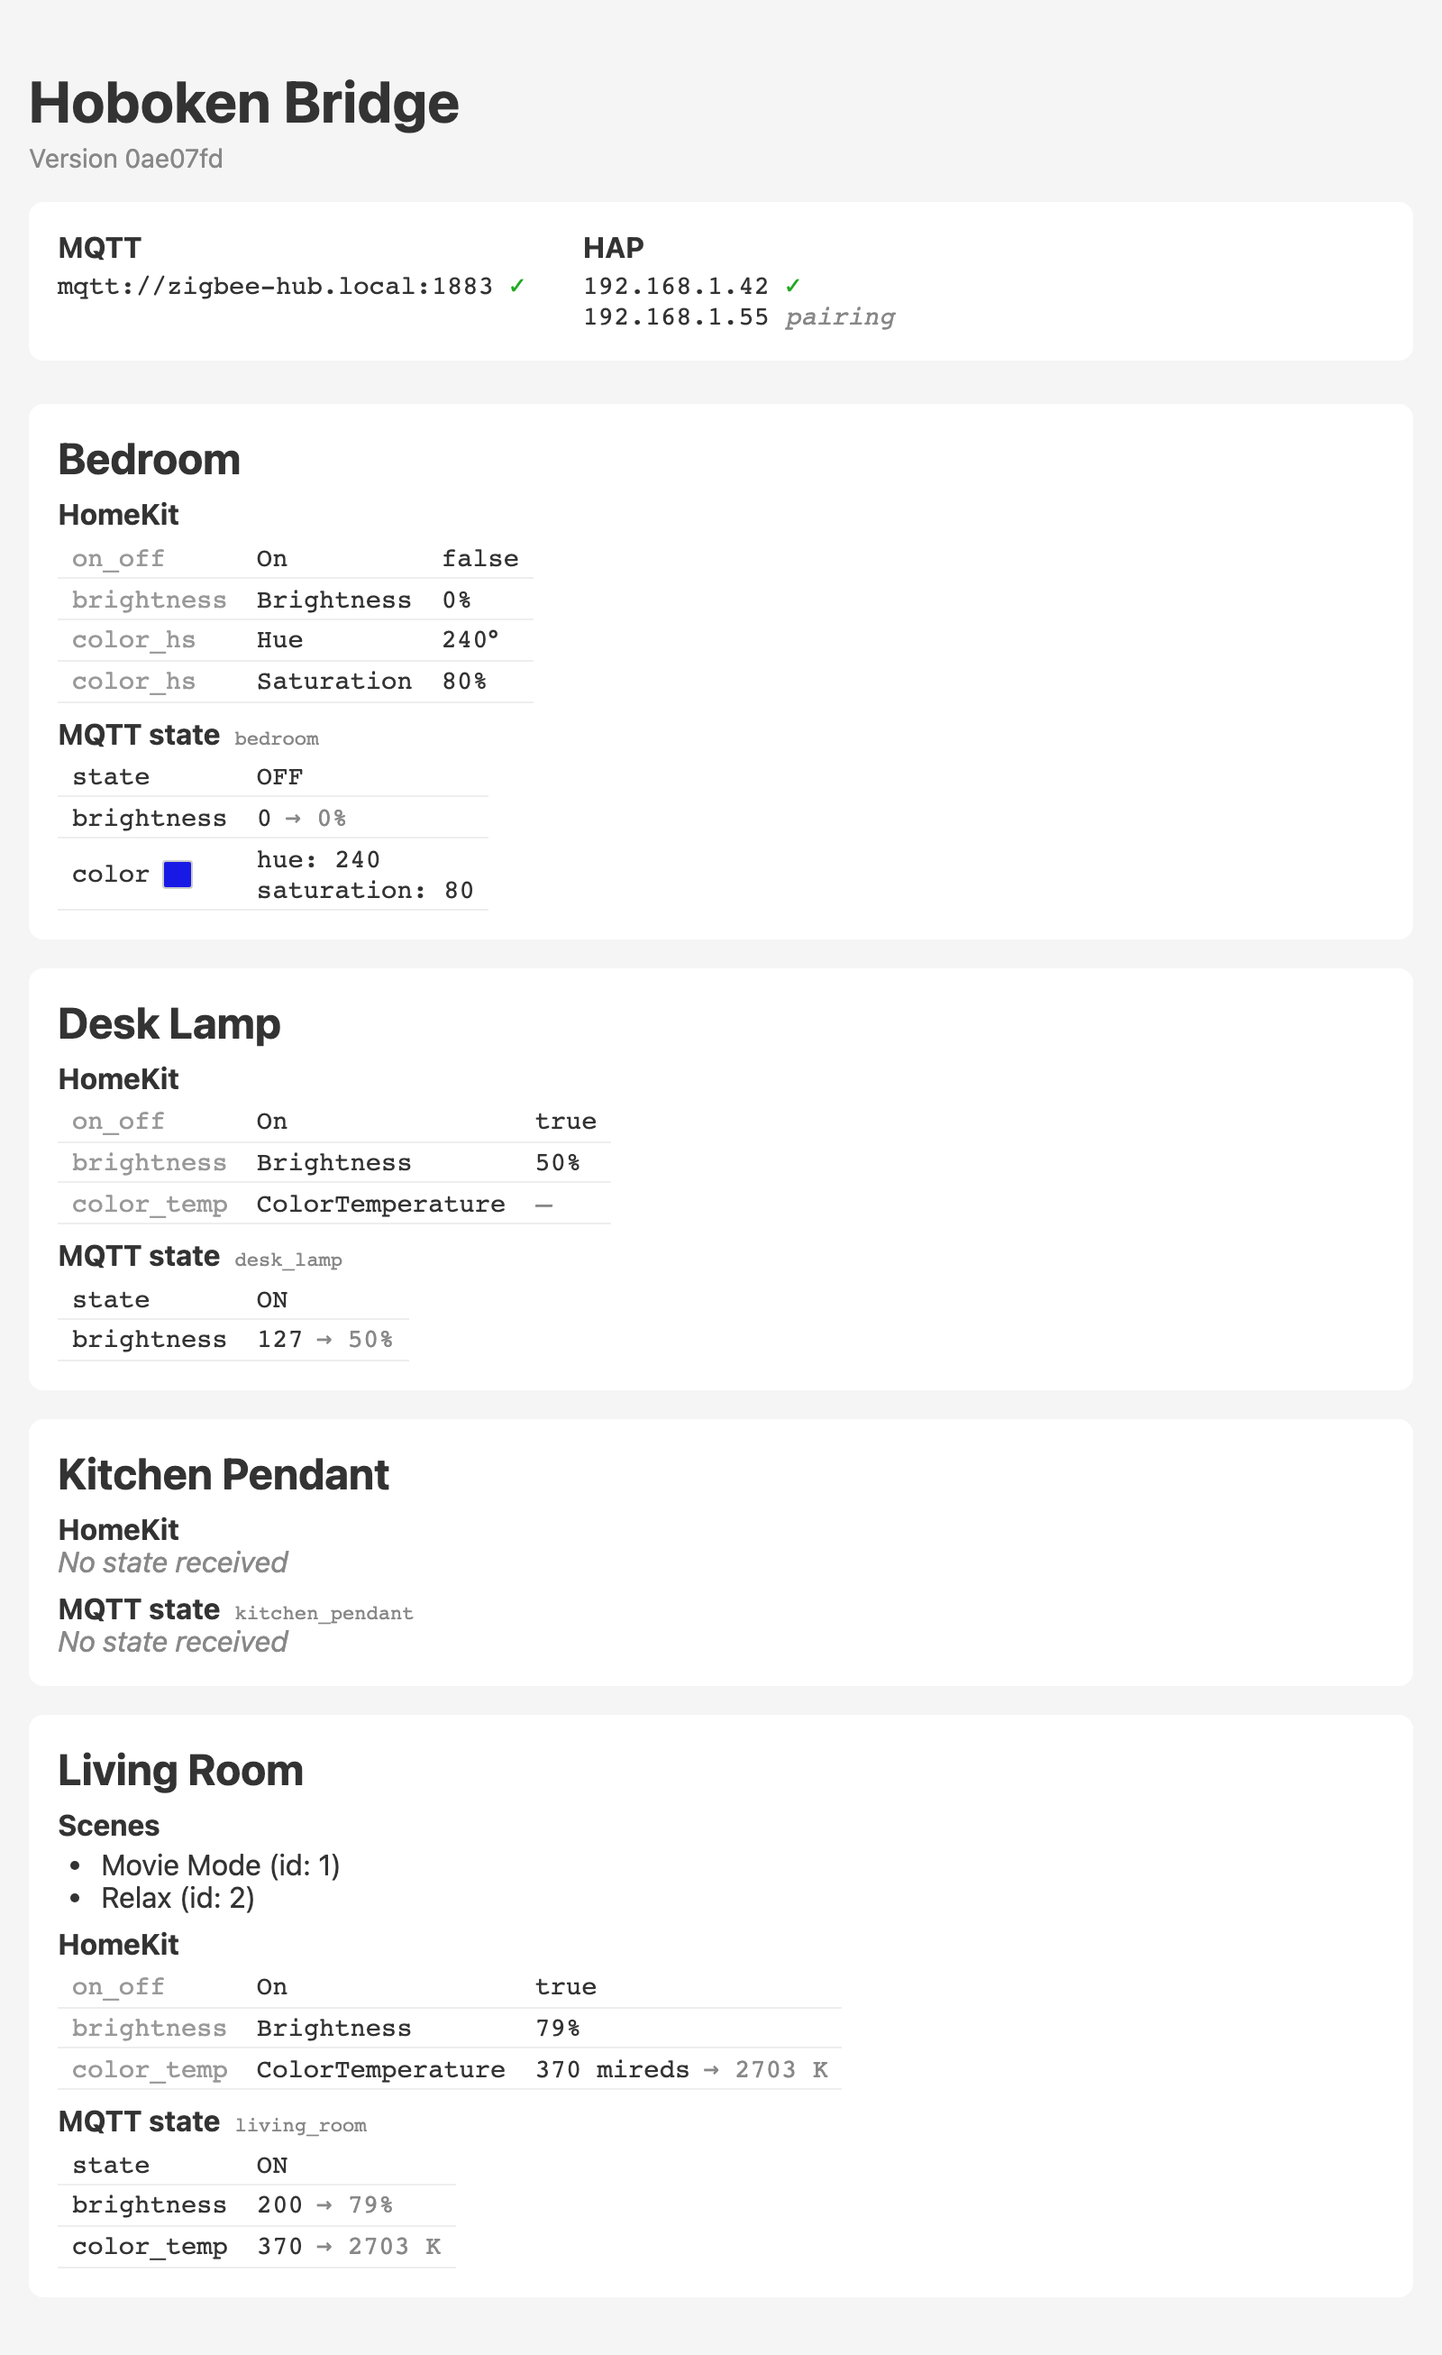
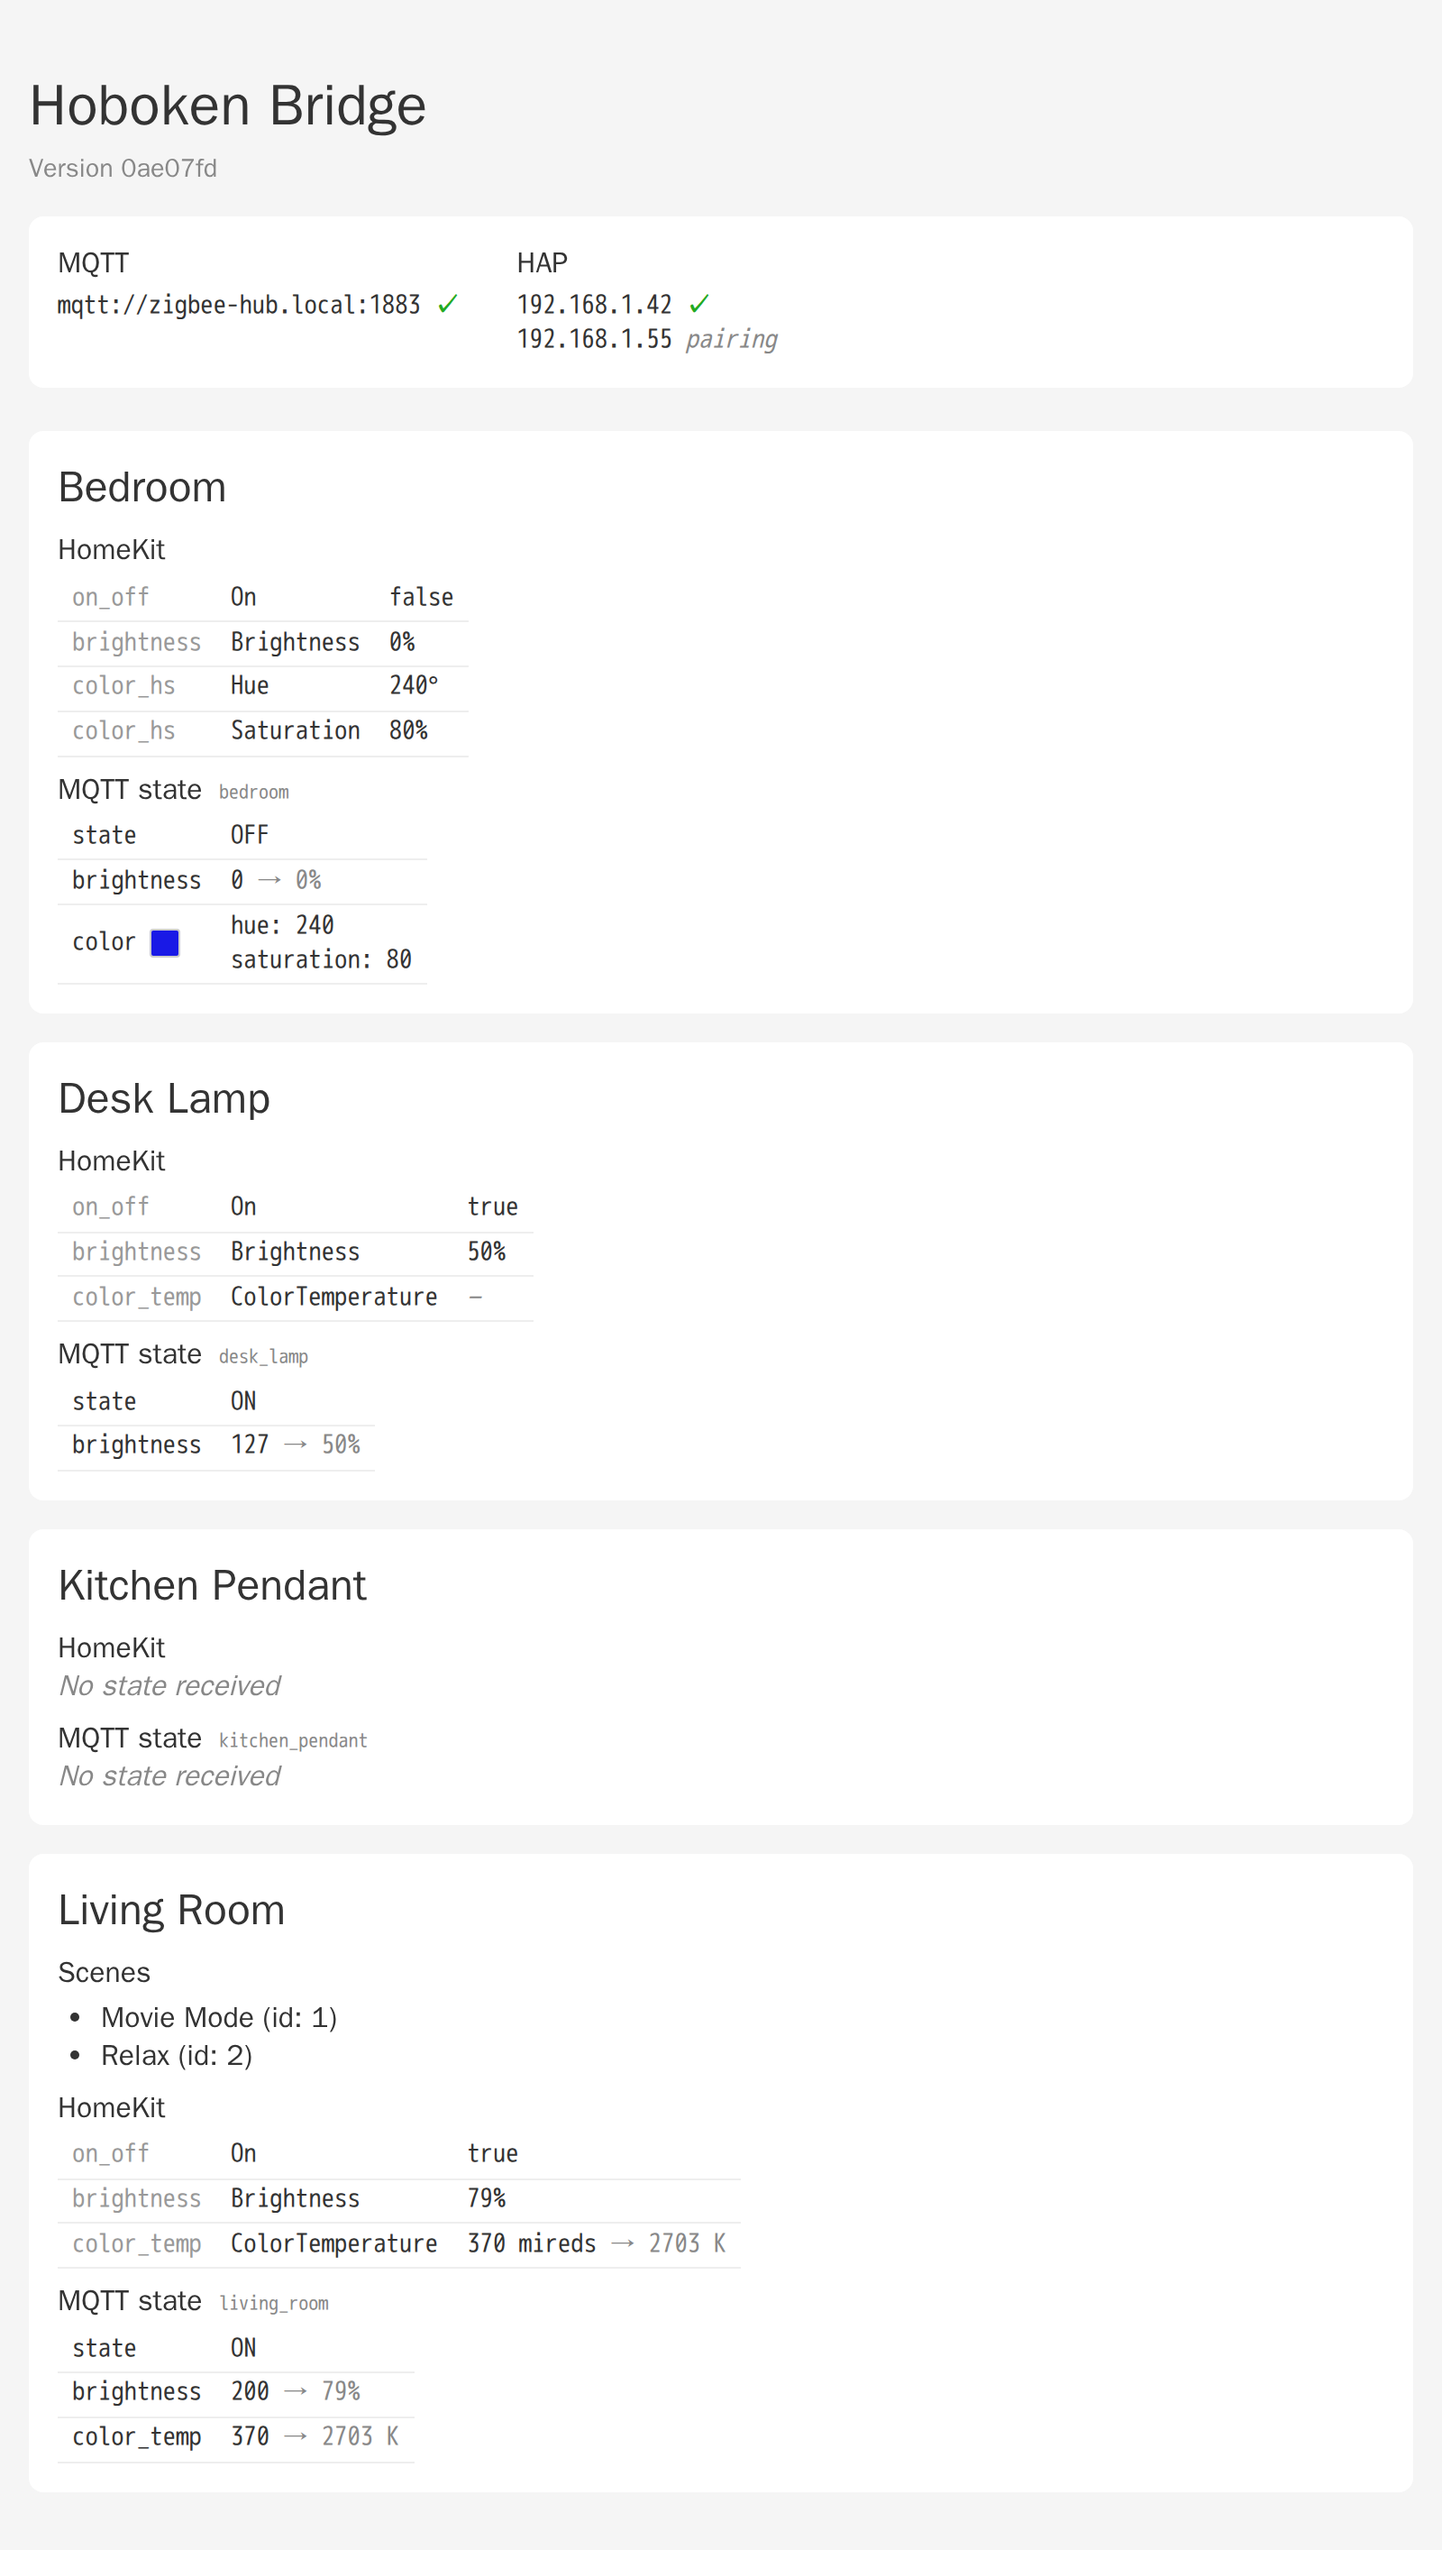
Dockerize screenshot tests for cross-platform determinism
Run all screenshot operations (golden file generation and CI testing)
inside a Docker container based on the official Playwright image so
that fonts and rendering match exactly across macOS and Linux.

- Add Dockerfile.playwright (Playwright image + pinned bun)
- Add demo/docker-screenshot.sh wrapper script
- Add --no-sandbox to Chromium when PLAYWRIGHT_IN_DOCKER is set
- Revert screenshot test to strict zero-tolerance pixel comparison
- Skip screenshot test outside Docker (fonts won't match golden file)
- Split CI: unit tests run natively, screenshot test runs in Docker
- Regenerate demo/status-page.png from Linux Chromium

diff --git a/test/screenshot.test.ts b/test/screenshot.test.ts
@@ -20,15 +20,15 @@ import { PNG } from "pngjs";
 import { captureStatusPage } from "../demo/capture.ts";
 
 const GOLDEN_FILE = "demo/status-page.png";
-const MAX_DIFF_RATIO = 0.001; // allow 0.1% pixel difference
 
-describe("screenshot golden file", () => {
+// Golden file is rendered in Docker for deterministic fonts; skip outside Docker.
+describe.skipIf(!process.env.PLAYWRIGHT_IN_DOCKER)("screenshot golden file", () => {
   test(
     "matches demo/status-page.png",
     async () => {
       if (!existsSync(GOLDEN_FILE)) {
         throw new Error(
-          `Golden file ${GOLDEN_FILE} not found. Run \`bun run demo:screenshot\` to generate it.`,
+          `Golden file ${GOLDEN_FILE} not found. Run \`bun run demo:golden-screenshot\` to generate it.`,
         );
       }
 
@@ -41,7 +41,6 @@ describe("screenshot golden file", () => {
       expect(actual.width).toBe(expected.width);
       expect(actual.height).toBe(expected.height);
 
-      const totalPixels = actual.width * actual.height;
       const diff = new PNG({ width: actual.width, height: actual.height });
 
       const numDiff = pixelmatch(
@@ -53,12 +52,12 @@ describe("screenshot golden file", () => {
         { threshold: 0.1 },
       );
 
-      if (numDiff / totalPixels > MAX_DIFF_RATIO) {
+      if (numDiff > 0) {
         await writeFile("demo/status-page-actual.png", actualPng);
         await writeFile("demo/status-page-diff.png", PNG.sync.write(diff));
         throw new Error(
-          `Screenshot differs by ${String(numDiff)} pixels (${(((numDiff / totalPixels) * 100)).toFixed(2)}%). ` +
-            "Actual and diff saved to demo/. Run `bun run demo:screenshot` to regenerate.",
+          `Screenshot differs by ${String(numDiff)} pixels. ` +
+            "Actual and diff saved to demo/. Run `bun run demo:golden-screenshot` to regenerate.",
         );
       }
     },

diff --git a/demo/capture.ts b/demo/capture.ts
@@ -28,7 +28,9 @@ export async function captureStatusPage(): Promise<Buffer> {
   const addr = ms.server.address();
   const port = typeof addr === "object" && addr ? addr.port : 0;
 
-  const browser = await chromium.launch();
+  const browser = await chromium.launch({
+    args: process.env.PLAYWRIGHT_IN_DOCKER ? ["--no-sandbox"] : [],
+  });
   try {
     const page = await browser.newPage({
       viewport: { width: 800, height: 600 },

diff --git a/AGENTS.md b/AGENTS.md
@@ -18,12 +18,11 @@ Minimal HomeKit bridge for Zigbee2MQTT. Uses `@homebridge/hap-nodejs` directly
 
 ```sh
 bun install                       # Install dependencies
-bunx playwright install chromium  # Install Playwright browser (first time)
 bun run check                     # TypeScript type checking (tsc --noEmit)
 bun run lint                      # ESLint
 bun run test                      # Run all tests with coverage
 bun run start                     # Run with Node.js
-bun run demo:screenshot           # Regenerate status page golden file
+bun run demo:golden-screenshot    # Regenerate status page golden file (Docker)
 ```
 
 ## Module Architecture
@@ -80,15 +79,24 @@ Each module is independently testable with dependency injection:
 - Use Bun's fake timers for scene auto-reset tests
 - Tests must pass: `bun run lint && bun run check && bun run test`
 - **Screenshot golden file**: `demo/status-page.png` is a committed screenshot
-  of the status page rendered from `demo/fixture.ts`. The test in
+  of the status page rendered from `demo/fixture.ts` inside a Docker container
+  (`Dockerfile.playwright`) for cross-platform determinism. The test in
   `test/screenshot.test.ts` compares a fresh Playwright screenshot against this
-  file byte-for-byte. If the status page HTML/CSS changes, regenerate with
-  `bun run demo:screenshot`.
+  file with zero pixel tolerance. Both golden generation (`bun run demo:golden-screenshot`)
+  and CI testing run inside the same Docker image so fonts and rendering match
+  exactly. The `PLAYWRIGHT_IN_DOCKER` env var triggers `--no-sandbox` for
+  Chromium inside the container.
 - **ciao mDNS patch**: `@homebridge/ciao` has a shutdown race condition where
   mDNS probe/announce timers fire after the server socket is closed, throwing
   `ERR_SERVER_CLOSED` as an uncaught exception. A `bun patch` in
   `patches/@homebridge%2Fciao@1.3.5.patch` fixes this by adding early-return
   guards to send methods. See https://github.com/homebridge/ciao/pull/60
+
+## Copyright Notice
+
+All new files must include the Apache 2.0 copyright header. Use `//` comments
+for TypeScript and `#` comments for shell scripts, placed immediately after the
+shebang line if present. See existing files for the exact format.
 
 ## Development Workflow
 
